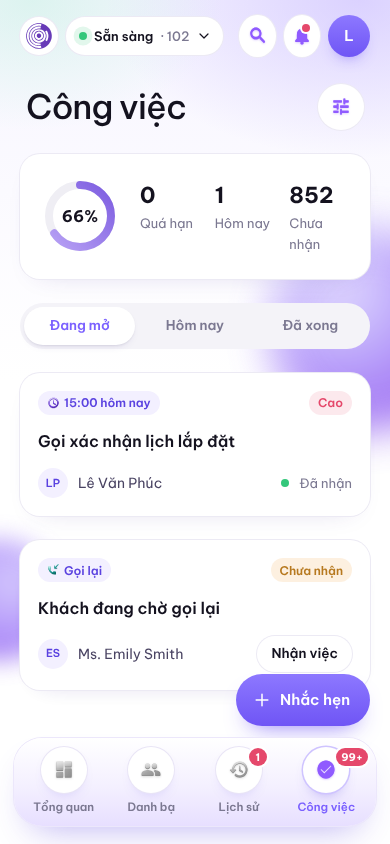
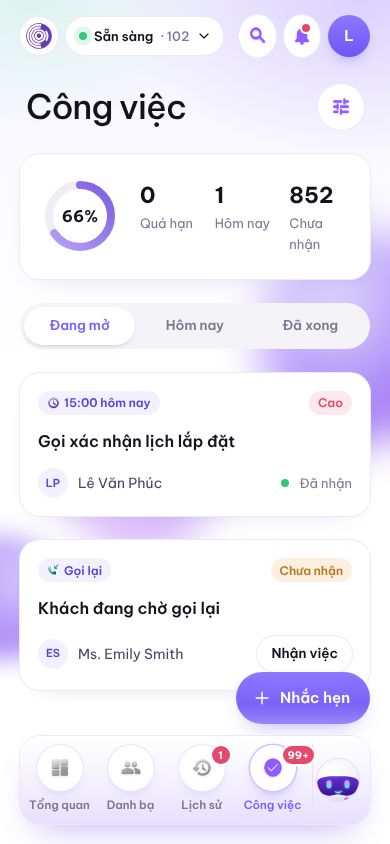
Bản sáng: thanh tab cùng lề/bo với card, thu gọn thành nút mặt mascot; quả cầu nền trôi và co giãn
Claude-Session: https://claude.ai/code/session_01UEoceJJYZjHjQck4sgHN5P

diff --git a/prototype/assets/contacthub.css b/prototype/assets/contacthub.css
@@ -979,9 +979,9 @@
   radial-gradient(70% 22% at 8% 0%,rgba(198,242,226,.55),transparent 70%),
   radial-gradient(90% 26% at 92% 0%,rgba(196,181,255,.55),transparent 72%),
   linear-gradient(180deg,#F7F5FF 0%,#fff 380px)}
-.app.lt .wall::before,.app.lt .wall::after,.app.lt .wall .b1,.app.lt .wall .b4,.app.lt .wall .b5{display:none!important}
+.app.lt .wall::before,.app.lt .wall::after,.app.lt .wall .b1,.app.lt .wall .b5{display:none!important}
 /* quả cầu tím phía sau, blur x3 để tan thành gradient */
-.app.lt .wall .b2,.app.lt .wall .b3{display:block!important;position:absolute;border-radius:50%!important;animation:none!important;transform:none!important;box-shadow:none!important;right:auto;bottom:auto}
+.app.lt .wall .b2,.app.lt .wall .b3,.app.lt .wall .b4{display:block!important;position:absolute;border-radius:50%!important;box-shadow:none!important;right:auto;bottom:auto;will-change:transform}
 .app.lt .wall .b2{left:270px!important;top:230px!important;width:200px!important;height:200px!important;filter:blur(21px)!important;opacity:.75!important;
   background:radial-gradient(circle at 35% 30%,#DDD6FE 0%,#A78BFA 35%,#7C3AED 75%,#6D28D9 100%)!important}
 .app.lt .wall .b3{left:-60px!important;top:540px!important;width:120px!important;height:120px!important;filter:blur(12px)!important;opacity:.7!important;
@@ -1049,3 +1049,45 @@
 .app.lt .bchart .btip,.app.lt .bchart .btip::after{background:#14121F}
 .app.lt .rbar{background:#F1EFF8}
 .app.lt .rate{background:#fff!important}
+
+/* thanh tab: cùng lề (20px) và độ bo (20px) với card, nền mờ trắng ở đáy, thu gọn thành nút mặt mascot */
+.app.lt .layer::after{content:"";position:absolute;left:0;right:0;bottom:0;height:140px;pointer-events:none;z-index:4;
+  background:linear-gradient(180deg,rgba(255,255,255,0) 0%,rgba(255,255,255,.92) 45%,#fff 100%)}
+.app.lt .nav{left:20px;right:20px;bottom:20px;border-radius:20px;grid-template-columns:repeat(4,minmax(0,1fr)) 54px;padding:8px 8px 8px 4px}
+.app.lt .nav-fold{display:flex;align-items:center;justify-content:center;border-left:1px solid #E6E0FA;margin-left:4px}
+.app.lt .mface{width:42px;height:42px;border-radius:50%;overflow:hidden;display:flex;justify-content:center;align-items:flex-start;
+  background:radial-gradient(circle at 50% 30%,#fff 0%,#EDE7FF 100%);box-shadow:0 0 0 1px #E1D9FF}
+.app.lt .mface img{width:60px;max-width:none;margin-top:1px}
+.app.lt .nav-fold:hover .mface{box-shadow:0 0 0 2px #CFC4FF}
+.app.lt .nav-dock{position:absolute;right:20px;bottom:24px;z-index:6;width:62px;height:62px;border-radius:50%;display:flex;align-items:center;justify-content:center;
+  background:linear-gradient(180deg,#FFFFFF 0%,#EFE9FF 100%);box-shadow:0 0 0 1px #E4DCFF,0 16px 30px -12px rgba(91,67,224,.6)}
+.app.lt .nav-dock .mface{width:50px;height:50px}
+.app.lt .nav-dock .mface img{width:72px}
+.app.lt .dock-dot{position:absolute;top:6px;right:6px;width:12px;height:12px;border-radius:50%;background:#E5486B;box-shadow:0 0 0 2px #fff}
+.app.lt .fab{bottom:120px}
+
+/* quả cầu nền: trôi và co giãn như ngẫu nhiên (mỗi quả một chu kỳ khác nhau) */
+.app.lt .wall .b4{left:60px!important;top:420px!important;width:150px!important;height:150px!important;filter:blur(24px)!important;opacity:.55!important;
+  background:radial-gradient(circle at 40% 35%,#F5D0FE 0%,#C084FC 50%,#8B5CF6 100%)!important}
+.app.lt .wall .b2{animation:orbA 19s ease-in-out infinite alternate!important}
+.app.lt .wall .b3{animation:orbB 23s ease-in-out infinite alternate!important}
+.app.lt .wall .b4{animation:orbC 29s ease-in-out infinite alternate!important}
+@keyframes orbA{
+  0%{transform:translate(0,0) scale(1)}
+  22%{transform:translate(-60px,70px) scale(1.35)}
+  47%{transform:translate(-150px,-40px) scale(.75)}
+  71%{transform:translate(-40px,190px) scale(1.2)}
+  100%{transform:translate(-120px,330px) scale(.9)}}
+@keyframes orbB{
+  0%{transform:translate(0,0) scale(1)}
+  30%{transform:translate(120px,-90px) scale(1.5)}
+  58%{transform:translate(60px,-260px) scale(.8)}
+  80%{transform:translate(210px,-140px) scale(1.25)}
+  100%{transform:translate(150px,60px) scale(1.05)}}
+@keyframes orbC{
+  0%{transform:translate(0,0) scale(.9)}
+  26%{transform:translate(140px,-200px) scale(1.4)}
+  52%{transform:translate(40px,-330px) scale(.7)}
+  77%{transform:translate(180px,120px) scale(1.3)}
+  100%{transform:translate(-20px,220px) scale(1)}}
+@media (prefers-reduced-motion: reduce){.app.lt .wall i{animation:none!important}}

diff --git a/prototype/screens/MainL.dc.html b/prototype/screens/MainL.dc.html
@@ -224,12 +224,18 @@
       </div>
     </sc-if>
 
+    <sc-if value="{{ navOpen }}" hint-placeholder-val="{{ true }}">
     <nav class="nav" aria-label="Điều hướng chính">
       <a href="MainL.dc.html" class="on"><span class="pill"><img class="i3d" src="assets/icons/nav-overview.svg" alt=""></span>Tổng quan</a>
       <a href="ContactsL.dc.html"><span class="pill"><img class="i3d" src="assets/icons/nav-contacts.svg" alt=""></span>Danh bạ</a>
       <a href="HistoryL.dc.html"><span class="pill"><img class="i3d" src="assets/icons/nav-history.svg" alt=""></span><span class="badge">1</span>Lịch sử</a>
       <a href="TasksL.dc.html"><span class="pill"><img class="i3d" src="assets/icons/nav-tasks.svg" alt=""></span><span class="badge">99+</span>Công việc</a>
+      <button type="button" class="nav-fold" onClick="{{ foldNav }}" aria-label="Thu gọn thanh điều hướng"><span class="mface"><img src="assets/icons/mascot.svg" alt=""></span></button>
     </nav>
+    </sc-if>
+    <sc-if value="{{ navClosed }}" hint-placeholder-val="{{ false }}">
+      <button type="button" class="nav-dock" onClick="{{ openNav }}" aria-label="Mở thanh điều hướng"><span class="mface"><img src="assets/icons/mascot.svg" alt=""></span><span class="dock-dot"></span></button>
+    </sc-if>
   </div>
 </div>
 </x-dc>
@@ -237,7 +243,9 @@
 class Component extends DCLogic {
   constructor(props) {
     super(props);
-    this.state = { key: '7d', a: -6, b: 0, gran: 'day', sel: null, hov: false, pop: false, view: 'list', cm: 9, da: null, db: null, dg: null };
+    let nav = true;
+    try { nav = window.localStorage.getItem('gch-nav') !== 'closed'; } catch (e) { /* storage blocked */ }
+    this.state = { nav: nav, key: '7d', a: -6, b: 0, gran: 'day', sel: null, hov: false, pop: false, view: 'list', cm: 9, da: null, db: null, dg: null };
   }
   renderVals() {
     const DAY = 86400000, T0 = Date.UTC(2026, 9, 8);
@@ -383,6 +391,9 @@ class Component extends DCLogic {
     }));
     const MN = 'Tháng ' + (cm + 1) + ', 2026';
     return {
+      navOpen: this.state.nav, navClosed: !this.state.nav,
+      foldNav: () => { this.setState({ nav: false }); try { window.localStorage.setItem('gch-nav', 'closed'); } catch (e) {} },
+      openNav: () => { this.setState({ nav: true }); try { window.localStorage.setItem('gch-nav', 'open'); } catch (e) {} },
       qToday: S.key === 'today' ? 'on' : '', q7: S.key === '7d' ? 'on' : '', q30: S.key === '30d' ? 'on' : '', q90: S.key === '90d' ? 'on' : '',
       setToday: () => setP(byKey('today')), set7: () => setP(byKey('7d')), set30: () => setP(byKey('30d')), set90: () => setP(byKey('90d')),
       calCls: 'cal-btn' + (quick ? '' : ' on'),

diff --git a/prototype/screens/TasksL.dc.html b/prototype/screens/TasksL.dc.html
@@ -78,18 +78,36 @@
 
     <a class="fab" href="CreateReminder.dc.html" aria-label="Tạo nhắc hẹn"><svg class="ico" viewBox="0 0 24 24"><path d="M12 5v14M5 12h14"></path></svg>Nhắc hẹn</a>
 
+    <sc-if value="{{ navOpen }}" hint-placeholder-val="{{ true }}">
     <nav class="nav" aria-label="Điều hướng chính">
       <a href="MainL.dc.html"><span class="pill"><img class="i3d" src="assets/icons/nav-overview.svg" alt=""></span>Tổng quan</a>
       <a href="ContactsL.dc.html"><span class="pill"><img class="i3d" src="assets/icons/nav-contacts.svg" alt=""></span>Danh bạ</a>
       <a href="HistoryL.dc.html"><span class="pill"><img class="i3d" src="assets/icons/nav-history.svg" alt=""></span><span class="badge">1</span>Lịch sử</a>
       <a href="TasksL.dc.html" class="on"><span class="pill"><img class="i3d" src="assets/icons/nav-tasks.svg" alt=""></span><span class="badge">99+</span>Công việc</a>
+      <button type="button" class="nav-fold" onClick="{{ foldNav }}" aria-label="Thu gọn thanh điều hướng"><span class="mface"><img src="assets/icons/mascot.svg" alt=""></span></button>
     </nav>
+    </sc-if>
+    <sc-if value="{{ navClosed }}" hint-placeholder-val="{{ false }}">
+      <button type="button" class="nav-dock" onClick="{{ openNav }}" aria-label="Mở thanh điều hướng"><span class="mface"><img src="assets/icons/mascot.svg" alt=""></span><span class="dock-dot"></span></button>
+    </sc-if>
   </div>
 </div>
 </x-dc>
 <script type="text/x-dc" data-dc-script data-props='{"$preview":{"width":390,"height":844}}'>
 class Component extends DCLogic {
-  renderVals() { return {}; }
+  constructor(props) {
+    super(props);
+    let nav = true;
+    try { nav = window.localStorage.getItem('gch-nav') !== 'closed'; } catch (e) { /* storage blocked */ }
+    this.state = { nav: nav };
+  }
+  renderVals() {
+    return {
+      navOpen: this.state.nav, navClosed: !this.state.nav,
+      foldNav: () => { this.setState({ nav: false }); try { window.localStorage.setItem('gch-nav', 'closed'); } catch (e) {} },
+      openNav: () => { this.setState({ nav: true }); try { window.localStorage.setItem('gch-nav', 'open'); } catch (e) {} },
+    };
+  }
 }
 </script>
 </body>

diff --git a/prototype/screens/ContactsL.dc.html b/prototype/screens/ContactsL.dc.html
@@ -83,18 +83,36 @@
       </div>
     </div>
 
+    <sc-if value="{{ navOpen }}" hint-placeholder-val="{{ true }}">
     <nav class="nav" aria-label="Điều hướng chính">
       <a href="MainL.dc.html"><span class="pill"><img class="i3d" src="assets/icons/nav-overview.svg" alt=""></span>Tổng quan</a>
       <a href="ContactsL.dc.html" class="on"><span class="pill"><img class="i3d" src="assets/icons/nav-contacts.svg" alt=""></span>Danh bạ</a>
       <a href="HistoryL.dc.html"><span class="pill"><img class="i3d" src="assets/icons/nav-history.svg" alt=""></span><span class="badge">1</span>Lịch sử</a>
       <a href="TasksL.dc.html"><span class="pill"><img class="i3d" src="assets/icons/nav-tasks.svg" alt=""></span><span class="badge">99+</span>Công việc</a>
+      <button type="button" class="nav-fold" onClick="{{ foldNav }}" aria-label="Thu gọn thanh điều hướng"><span class="mface"><img src="assets/icons/mascot.svg" alt=""></span></button>
     </nav>
+    </sc-if>
+    <sc-if value="{{ navClosed }}" hint-placeholder-val="{{ false }}">
+      <button type="button" class="nav-dock" onClick="{{ openNav }}" aria-label="Mở thanh điều hướng"><span class="mface"><img src="assets/icons/mascot.svg" alt=""></span><span class="dock-dot"></span></button>
+    </sc-if>
   </div>
 </div>
 </x-dc>
 <script type="text/x-dc" data-dc-script data-props='{"$preview":{"width":390,"height":844}}'>
 class Component extends DCLogic {
-  renderVals() { return {}; }
+  constructor(props) {
+    super(props);
+    let nav = true;
+    try { nav = window.localStorage.getItem('gch-nav') !== 'closed'; } catch (e) { /* storage blocked */ }
+    this.state = { nav: nav };
+  }
+  renderVals() {
+    return {
+      navOpen: this.state.nav, navClosed: !this.state.nav,
+      foldNav: () => { this.setState({ nav: false }); try { window.localStorage.setItem('gch-nav', 'closed'); } catch (e) {} },
+      openNav: () => { this.setState({ nav: true }); try { window.localStorage.setItem('gch-nav', 'open'); } catch (e) {} },
+    };
+  }
 }
 </script>
 </body>

diff --git a/prototype/screens/HistoryL.dc.html b/prototype/screens/HistoryL.dc.html
@@ -76,18 +76,36 @@
       </div>
     </div>
 
+    <sc-if value="{{ navOpen }}" hint-placeholder-val="{{ true }}">
     <nav class="nav" aria-label="Điều hướng chính">
       <a href="MainL.dc.html"><span class="pill"><img class="i3d" src="assets/icons/nav-overview.svg" alt=""></span>Tổng quan</a>
       <a href="ContactsL.dc.html"><span class="pill"><img class="i3d" src="assets/icons/nav-contacts.svg" alt=""></span>Danh bạ</a>
       <a href="HistoryL.dc.html" class="on"><span class="pill"><img class="i3d" src="assets/icons/nav-history.svg" alt=""></span><span class="badge">1</span>Lịch sử</a>
       <a href="TasksL.dc.html"><span class="pill"><img class="i3d" src="assets/icons/nav-tasks.svg" alt=""></span><span class="badge">99+</span>Công việc</a>
+      <button type="button" class="nav-fold" onClick="{{ foldNav }}" aria-label="Thu gọn thanh điều hướng"><span class="mface"><img src="assets/icons/mascot.svg" alt=""></span></button>
     </nav>
+    </sc-if>
+    <sc-if value="{{ navClosed }}" hint-placeholder-val="{{ false }}">
+      <button type="button" class="nav-dock" onClick="{{ openNav }}" aria-label="Mở thanh điều hướng"><span class="mface"><img src="assets/icons/mascot.svg" alt=""></span><span class="dock-dot"></span></button>
+    </sc-if>
   </div>
 </div>
 </x-dc>
 <script type="text/x-dc" data-dc-script data-props='{"$preview":{"width":390,"height":844}}'>
 class Component extends DCLogic {
-  renderVals() { return {}; }
+  constructor(props) {
+    super(props);
+    let nav = true;
+    try { nav = window.localStorage.getItem('gch-nav') !== 'closed'; } catch (e) { /* storage blocked */ }
+    this.state = { nav: nav };
+  }
+  renderVals() {
+    return {
+      navOpen: this.state.nav, navClosed: !this.state.nav,
+      foldNav: () => { this.setState({ nav: false }); try { window.localStorage.setItem('gch-nav', 'closed'); } catch (e) {} },
+      openNav: () => { this.setState({ nav: true }); try { window.localStorage.setItem('gch-nav', 'open'); } catch (e) {} },
+    };
+  }
 }
 </script>
 </body>

diff --git a/prototype/screens/AccountL.dc.html b/prototype/screens/AccountL.dc.html
@@ -58,18 +58,36 @@
       </div>
     </div>
 
+    <sc-if value="{{ navOpen }}" hint-placeholder-val="{{ true }}">
     <nav class="nav" aria-label="Điều hướng chính">
       <a href="MainL.dc.html"><span class="pill"><img class="i3d" src="assets/icons/nav-overview.svg" alt=""></span>Tổng quan</a>
       <a href="ContactsL.dc.html"><span class="pill"><img class="i3d" src="assets/icons/nav-contacts.svg" alt=""></span>Danh bạ</a>
       <a href="HistoryL.dc.html"><span class="pill"><img class="i3d" src="assets/icons/nav-history.svg" alt=""></span><span class="badge">1</span>Lịch sử</a>
       <a href="TasksL.dc.html"><span class="pill"><img class="i3d" src="assets/icons/nav-tasks.svg" alt=""></span><span class="badge">99+</span>Công việc</a>
+      <button type="button" class="nav-fold" onClick="{{ foldNav }}" aria-label="Thu gọn thanh điều hướng"><span class="mface"><img src="assets/icons/mascot.svg" alt=""></span></button>
     </nav>
+    </sc-if>
+    <sc-if value="{{ navClosed }}" hint-placeholder-val="{{ false }}">
+      <button type="button" class="nav-dock" onClick="{{ openNav }}" aria-label="Mở thanh điều hướng"><span class="mface"><img src="assets/icons/mascot.svg" alt=""></span><span class="dock-dot"></span></button>
+    </sc-if>
   </div>
 </div>
 </x-dc>
 <script type="text/x-dc" data-dc-script data-props='{"$preview":{"width":390,"height":1160}}'>
 class Component extends DCLogic {
-  renderVals() { return {}; }
+  constructor(props) {
+    super(props);
+    let nav = true;
+    try { nav = window.localStorage.getItem('gch-nav') !== 'closed'; } catch (e) { /* storage blocked */ }
+    this.state = { nav: nav };
+  }
+  renderVals() {
+    return {
+      navOpen: this.state.nav, navClosed: !this.state.nav,
+      foldNav: () => { this.setState({ nav: false }); try { window.localStorage.setItem('gch-nav', 'closed'); } catch (e) {} },
+      openNav: () => { this.setState({ nav: true }); try { window.localStorage.setItem('gch-nav', 'open'); } catch (e) {} },
+    };
+  }
 }
 </script>
 </body>

diff --git a/docs/SPEC.md b/docs/SPEC.md
@@ -76,7 +76,8 @@ Trong prototype, các nút dẫn tới màn đã bỏ (tìm kiếm, thông báo,
 | Card | trắng, viền 1px `#ECEAF4`, bo 20, bóng rất nhẹ | |
 | Ô icon pastel | tím `#F3F0FF` · hồng `#FFE9EE` (gọi nhỡ) · bạc hà `#E5F7EF` (gọi đến, hôm nay, sẵn sàng) · cam nhạt `#FFF0E3` (SMS, quá hạn) · xanh nhạt `#E8F1FF` | Icon bên trong màu tím |
 | Chữ | `#14121F` / `#4A475C` / `#7B7891` | |
-| Thanh tab | nền trắng chuyển tím nhạt `#FFFFFF → #F4F0FF → #E7DFFF`, ô tròn trắng + nhãn; tab đang chọn icon và nhãn tím | |
+| Thanh tab | nền trắng chuyển tím nhạt `#FFFFFF → #F4F0FF → #E7DFFF`, ô tròn trắng + nhãn; tab đang chọn icon và nhãn tím. Cùng lề 20px và bo 20px với card; đáy màn có lớp mờ trắng để nội dung trôi dưới thanh tab không lộ mép | Nút mặt mascot ở cuối thanh: bấm để thu gọn thành nút tròn góc phải dưới (chấm đỏ khi có việc mới), bấm lại để mở. Trạng thái thu gọn được nhớ giữa các tab |
+| Nền động | 3 quả cầu tím / tím hồng, blur 12–24px, trôi và co giãn chậm (chu kỳ 19s / 23s / 29s, so le) | Tắt chuyển động khi máy bật "Giảm chuyển động" |
 | Chip, phân đoạn | chip trắng viền mảnh, chip chọn tím đặc; phân đoạn nền `#F4F3F8`, mục chọn trắng chữ tím | |
 
 Bảng dưới đây là màu gốc của bộ thiết kế ban đầu:
